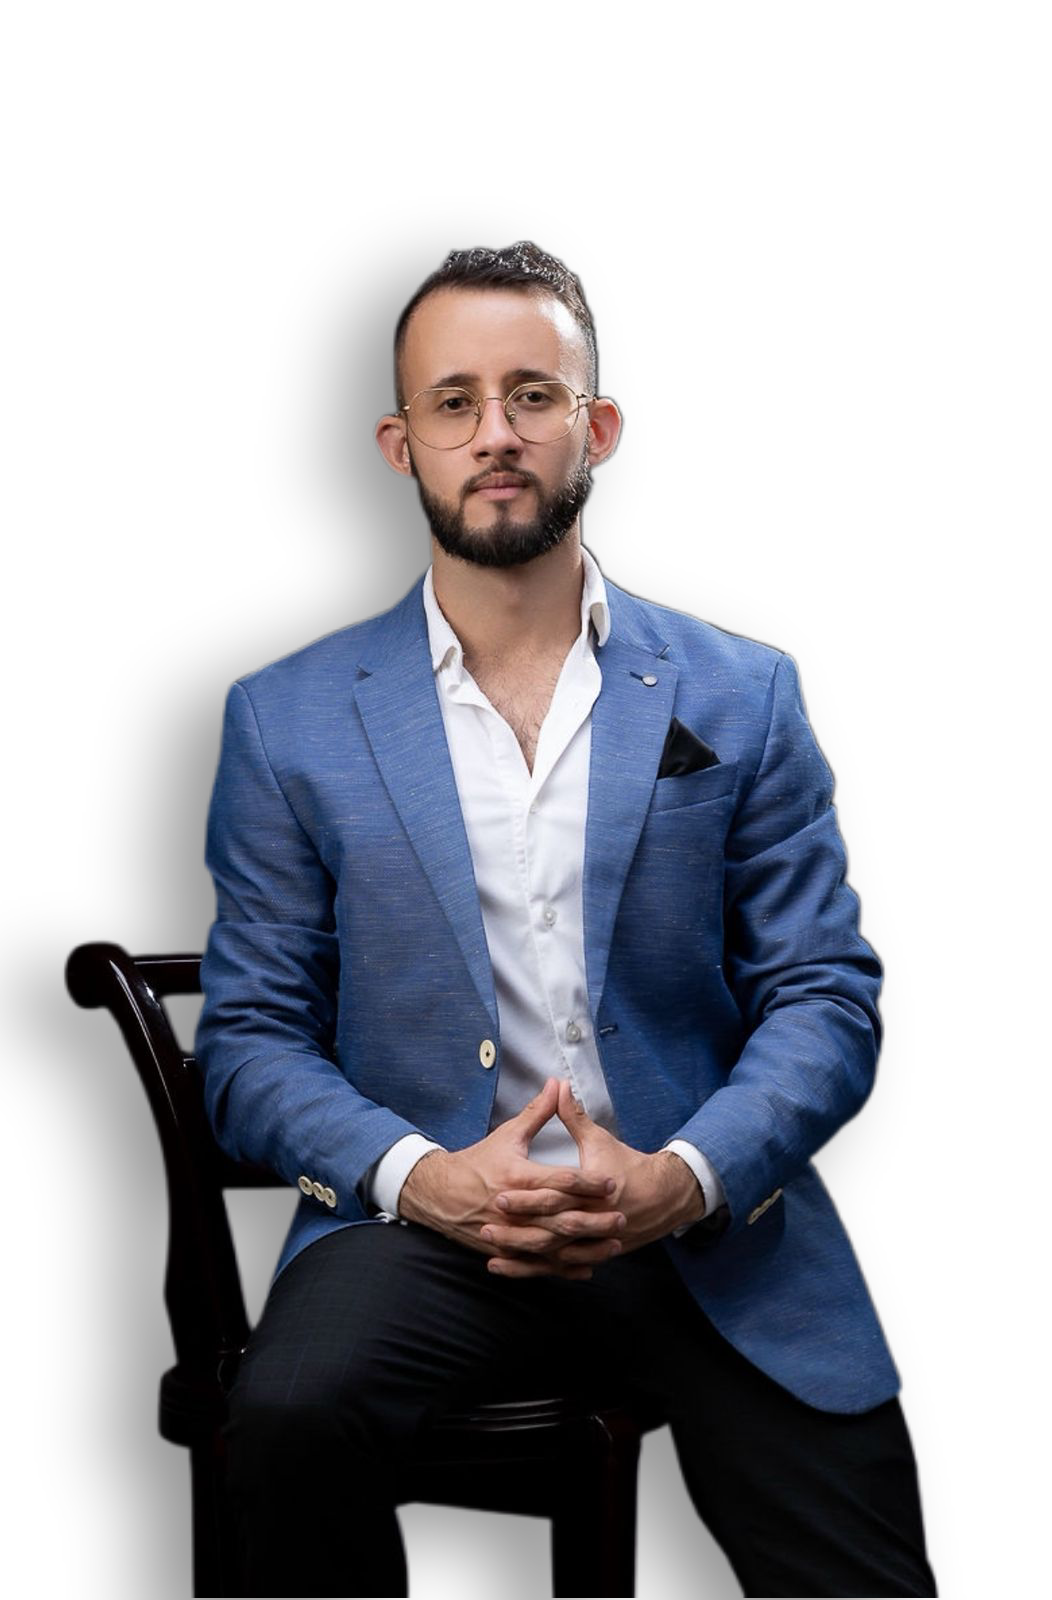
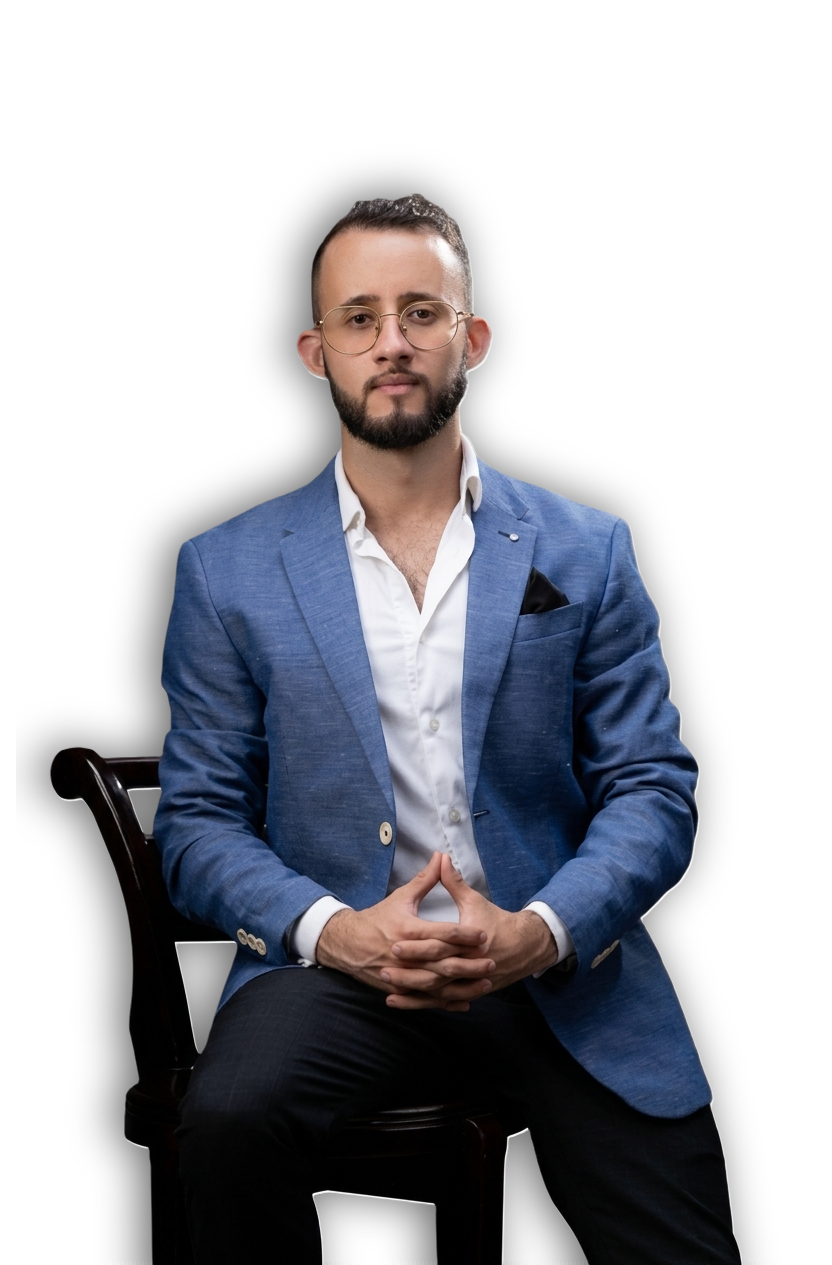
cambios

diff --git a/src/App.tsx b/src/App.tsx
@@ -115,7 +115,6 @@ export default function App() {
             src="/kevin-hero.png"
             alt="Kevin Barquero"
             className="h-[80%] w-auto object-contain object-bottom"
-            style={{ maskImage: 'linear-gradient(to bottom, transparent 0%, black 10%)', WebkitMaskImage: 'linear-gradient(to bottom, transparent 0%, black 10%)' }}
           />
         </div>
 
@@ -134,11 +133,11 @@ export default function App() {
               </div>
 
               <p className="text-[11px] md:text-[12px] font-semibold tracking-widest uppercase text-[#6e6e73] mb-6">Inversionista · Emprendedor · Web3</p>
-              <h1 className="text-[42px] sm:text-[68px] lg:text-[92px] font-bold leading-[1.02] tracking-tight text-[#1d1d1f] mb-6">
-                Kevin<br /><span className="text-[#6e6e73]">Barquero</span>
-              </h1>
+              <div className="flex justify-center lg:justify-start mb-6">
+                <img src="/kevin-signature.png" alt="Kevin Barquero" className="max-w-xs sm:max-w-sm lg:max-w-md h-auto" />
+              </div>
               <p className="text-[16px] sm:text-[20px] text-[#6e6e73] leading-relaxed mb-10">
-                Especialista en Web3, Blockchain y Trading. Ayudando a personas a alcanzar su libertad financiera desde Costa Rica 🇨🇷
+                Estratega en Web3 y Blockchain enfocado en crecimiento y transformación digital
               </p>
               <div className="flex flex-col md:flex-row flex-wrap gap-3 justify-center lg:justify-start mb-12">
                 <button onClick={() => goto('portfolio')} className="inline-flex items-center justify-center gap-2 bg-[#1d1d1f] text-white text-[15px] font-medium px-6 md:px-7 py-4 md:py-3.5 rounded-full hover:bg-[#333] transition-colors">
